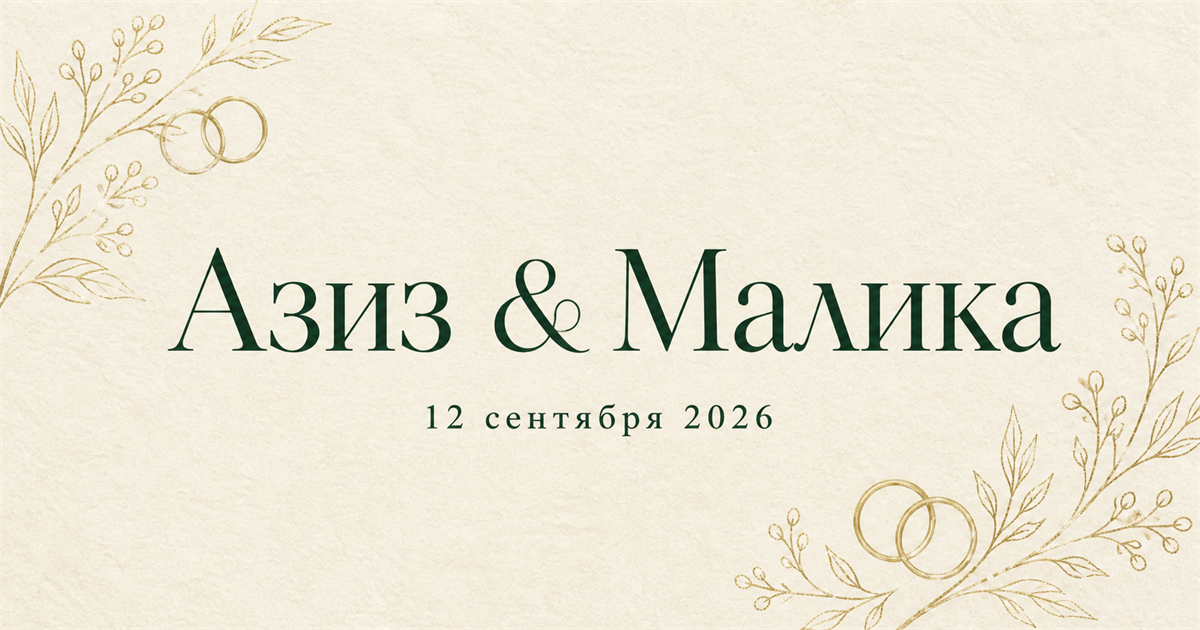
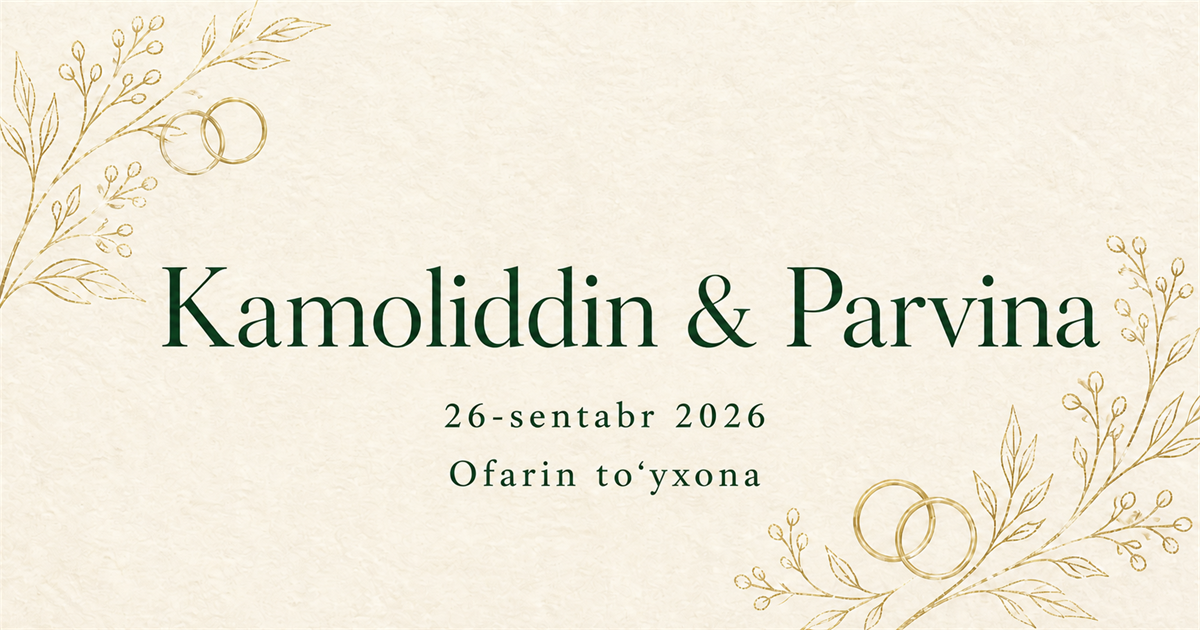
Update wedding invitation social preview

diff --git a/app/layout.tsx b/app/layout.tsx
@@ -13,7 +13,7 @@ const geistMono = Geist_Mono({
 });
 
 export const metadata: Metadata = {
-  metadataBase: new URL('https://aziz-malika-invitation.anibus.chatgpt.site'),
+  metadataBase: new URL('https://kamoliddin-parvina.vercel.app'),
   title: 'Kamoliddin & Parvina — toʻy taklifnomasi',
   description: 'Kamoliddin va Parvinaning toʻy taklifnomasi.',
   openGraph: {
